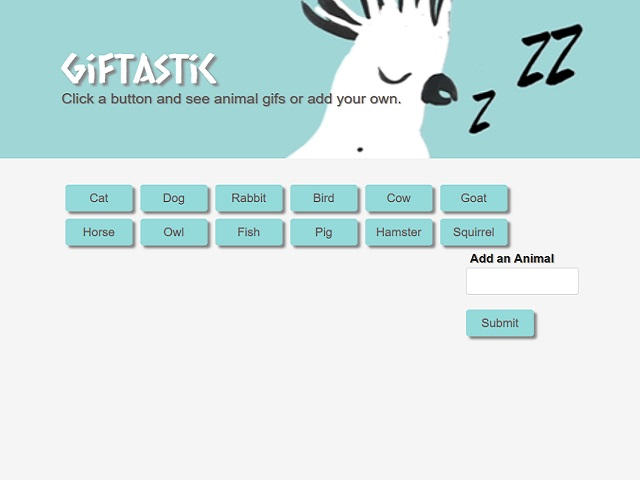
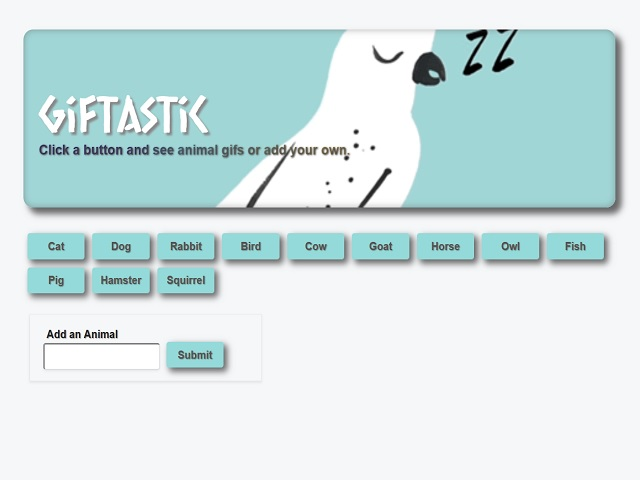
Corrected javascript

diff --git a/assets/css/style.css b/assets/css/style.css
@@ -1,28 +1,52 @@
-  
-    button,#btn
-     {
-      margin: 5px;
+  body{
+      font-family: Arial, Helvetica, sans-serif;
+      text-shadow: 1px 1px 1px #888888;
+  }
+    
+/* Animal add box */
+    button,#btn {
+      margin: 6px;
     }
 
+  .form-row{
+   border: 1px solid rgba(211, 211, 211, 0.363);
+  }
+
+  /* Gif Box*/
     .box{
       float: left;
-      margin: 5px;
-      
+      margin: 6px;
+      box-shadow: 4px 4px 4px #888888;
+      border-radius: 3px;
     }
+
+  /* Input box */
+    #animal-name{
+  border-top: 2px solid#35333393;
+  border-left: 2px solid #46454594;
+    }
+
+   /* Buttons */
     .btn,#animal-add{
       background-color:rgb(148, 218, 218);
       color:rgb(87, 83, 83);
-      box-shadow: 4px 4px 4px #888888;
-      border-color: rgb(148, 218, 218);
-      text-shadow: 0 -1px 0 rgb(155, 153, 153);
-    
+      box-shadow: 5px 5px 15px 1px #00000094;
+      text-shadow: 1px 1px 1px rgba(77, 75, 75, 0.637);
+      font-weight: bold;
+      border: 1px solid rgb(148, 218, 218);
     }
+
     .btn{
       width: 90px;
+    }
+
+    #animal-add{
+      margin-top: 3px;
     }
       
     .btn:hover {
       background-color:rgb(129, 201, 201);
+      border: 1px solid rgb(148, 218, 218);
       color: white;
       text-shadow: 0 -1px 0 #000;
     } 
@@ -60,40 +84,56 @@
       top: 5px;
     }
     
-    body{
-      background-color: rgb(245, 245, 245);
-      font-family: Arial, Helvetica, sans-serif;
-      text-shadow: 1px 1px 1px #888888;
-    }
-
+/* Jumbotron Box */
     .jumbotron{
+      border-radius: 15px;
       background-color:rgba(31, 100, 100, 0.596); 
       color:white;  
       background-image:url('../images/bird.gif');
        background-position: 0px -320px;
       background-repeat: no-repeat;
       background-size:cover;
+      box-shadow: inset 0px 0px 15px 1px #52515163, 9px 9px 15px 1px #00000094;
     }
-
-    .display-4{
+  
+    /* Jumobotron Title */
+    .title{
       font-family: 'Caesar Dressing', cursive;
       text-shadow: 4px 4px 4px #888888;
         
     }
-
+  /* Jumbotron Text */
     .lead{
-      color: rgb(87, 83, 83);
+      background: linear-gradient(to right, rgb(27, 11, 99) 15%, rgb(54, 105, 139) 25%, rgb(161, 126, 50) 50%,  rgb(255, 255, 255) 100%);
+      background-size: 100%;
+      -webkit-background-clip: text;
+      -webkit-text-fill-color: transparent;    
+      text-shadow: 1px 1px 3px #4e4e4e;
+      font-weight: bold;
+    }
+    
+@media screen and (max-width: 768px){
+  .img-thumbnail{
+    height: 140px !important;
+    width: 150px !important;
+  }
+  }
+
+@media screen and (max-width: 999px){
+      .jumbotron{
+      background-position: 0px -120px;
+      }
+      .img-thumbnail{
+        height: 160px !important;
+        width: 170px !important;
+      }
     }
 
-    @media screen and (max-width: 940px){
-      .jumbotron{
-      background-position: 0px -220px;
-      }
-
-    @media screen and (max-width: 680px){
+ @media screen and (max-width: 680px){
         .jumbotron{
         background-position: 0px -120px;
         }
+    }
   
 
     

diff --git a/index.html b/index.html
@@ -3,8 +3,8 @@
 
 <head>
   <meta charset="utf-8">
-  <link rel="stylesheet" href="https://stackpath.bootstrapcdn.com/bootstrap/4.1.1/css/bootstrap.min.css" integrity="sha384-WskhaSGFgHYWDcbwN70/dfYBj47jz9qbsMId/iRN3ewGhXQFZCSftd1LZCfmhktB"
-    crossorigin="anonymous">
+  <link rel="stylesheet" href="https://stackpath.bootstrapcdn.com/bootstrap/4.1.1/css/bootstrap.min.css"
+    integrity="sha384-WskhaSGFgHYWDcbwN70/dfYBj47jz9qbsMId/iRN3ewGhXQFZCSftd1LZCfmhktB" crossorigin="anonymous">
   <link href="https://fonts.googleapis.com/css?family=Caesar+Dressing" rel="stylesheet">
   <link rel="stylesheet" href="assets/css/reset.css">
   <link rel="stylesheet" href="assets/css/style.css">
@@ -14,49 +14,56 @@
 
 <body>
 
-  <div class="jumbotron jumbotron-fluid">
-    <div class="container">
-      <h1 class="display-4">GifTastic</h1>
-      <p class="lead">Click a button and see animal gifs or add your own.</p>
-    </div>
-  </div>
-
-
   <div class="container">
+
+    <div class="jumbotron jumbotron-fluid mt-5">
+      <h1 class="title display-3 ml-4 mt-3">GifTastic</h1>
+      <p class="lead ml-4">Click a button and see animal gifs or add your own.</p>
+    </div>
+
+
     <div class="row">
       <div class="col-md-12">
         <!-- Buttons get placed here -->
         <div id="animal-buttons"></div>
       </div>
+
+      <br>
+
+      <form>
+        <div class="form-row mt-4 ml-4 shadow-sm p-3">
+
+          <div class="col-7">
+            <label for="animal-name">Add an Animal</label>
+            <!--Input Box-->
+            <input type="text" id="animal-name" class="form-control shadow-sm">
+          </div>
+
+          <div class="col mt-3 ">
+            <!-- Button to add animals -->
+            <input id="animal-add" type="submit" value="Submit" class="submit btn btn-primary aria-pressed=" false"">
+          </div>
+
+        </div>
+      </form>
     </div>
+
     <!--row-->
 
-    <div class="row">
-      <div class="col-md-9">
+    <div class="row mt-3">
+      <div class="col-md-12">
         <p> </p>
         <!--Gifs get placed here -->
         <div id="images" class="redraw"></div>
       </div>
-
-      <div class="col-md-3 ">
-        <label for="animal-name">Add an Animal</label>
-        <br>
-        <!--Input Box-->
-        <input type="text" id="animal-name" class="form-control">
-        <br>
-        <!-- Button to add animals -->
-        <input id="animal-add" type="submit" value="Submit" class="submit btn btn-primary" aria-pressed="true">
-      </div> 
-
     </div>
   </div>
-</div>
-</body>
 
-<footer>
-  <script src="https://code.jquery.com/jquery-3.3.1.min.js" integrity="sha256-FgpCb/KJQlLNfOu91ta32o/NMZxltwRo8QtmkMRdAu8="
-    crossorigin="anonymous"></script>
+  </div>
+  <script src="https://code.jquery.com/jquery-3.3.1.min.js"
+    integrity="sha256-FgpCb/KJQlLNfOu91ta32o/NMZxltwRo8QtmkMRdAu8=" crossorigin="anonymous"></script>
   <script src="assets/javascript/app.js"></script>
-</footer>
+
+</body>
 
 </html>

diff --git a/assets/javascript/app.js b/assets/javascript/app.js
@@ -34,7 +34,7 @@ $(document).on("click", ".press", displaygif);
 
 // displaygif grabs gif info 
 function displaygif() {
-  // $("#images").empty();
+  $("#images").empty();
   var name = $(this).attr("data-name");
 
   // Builds a query to search Giphy with animal gil urls.
